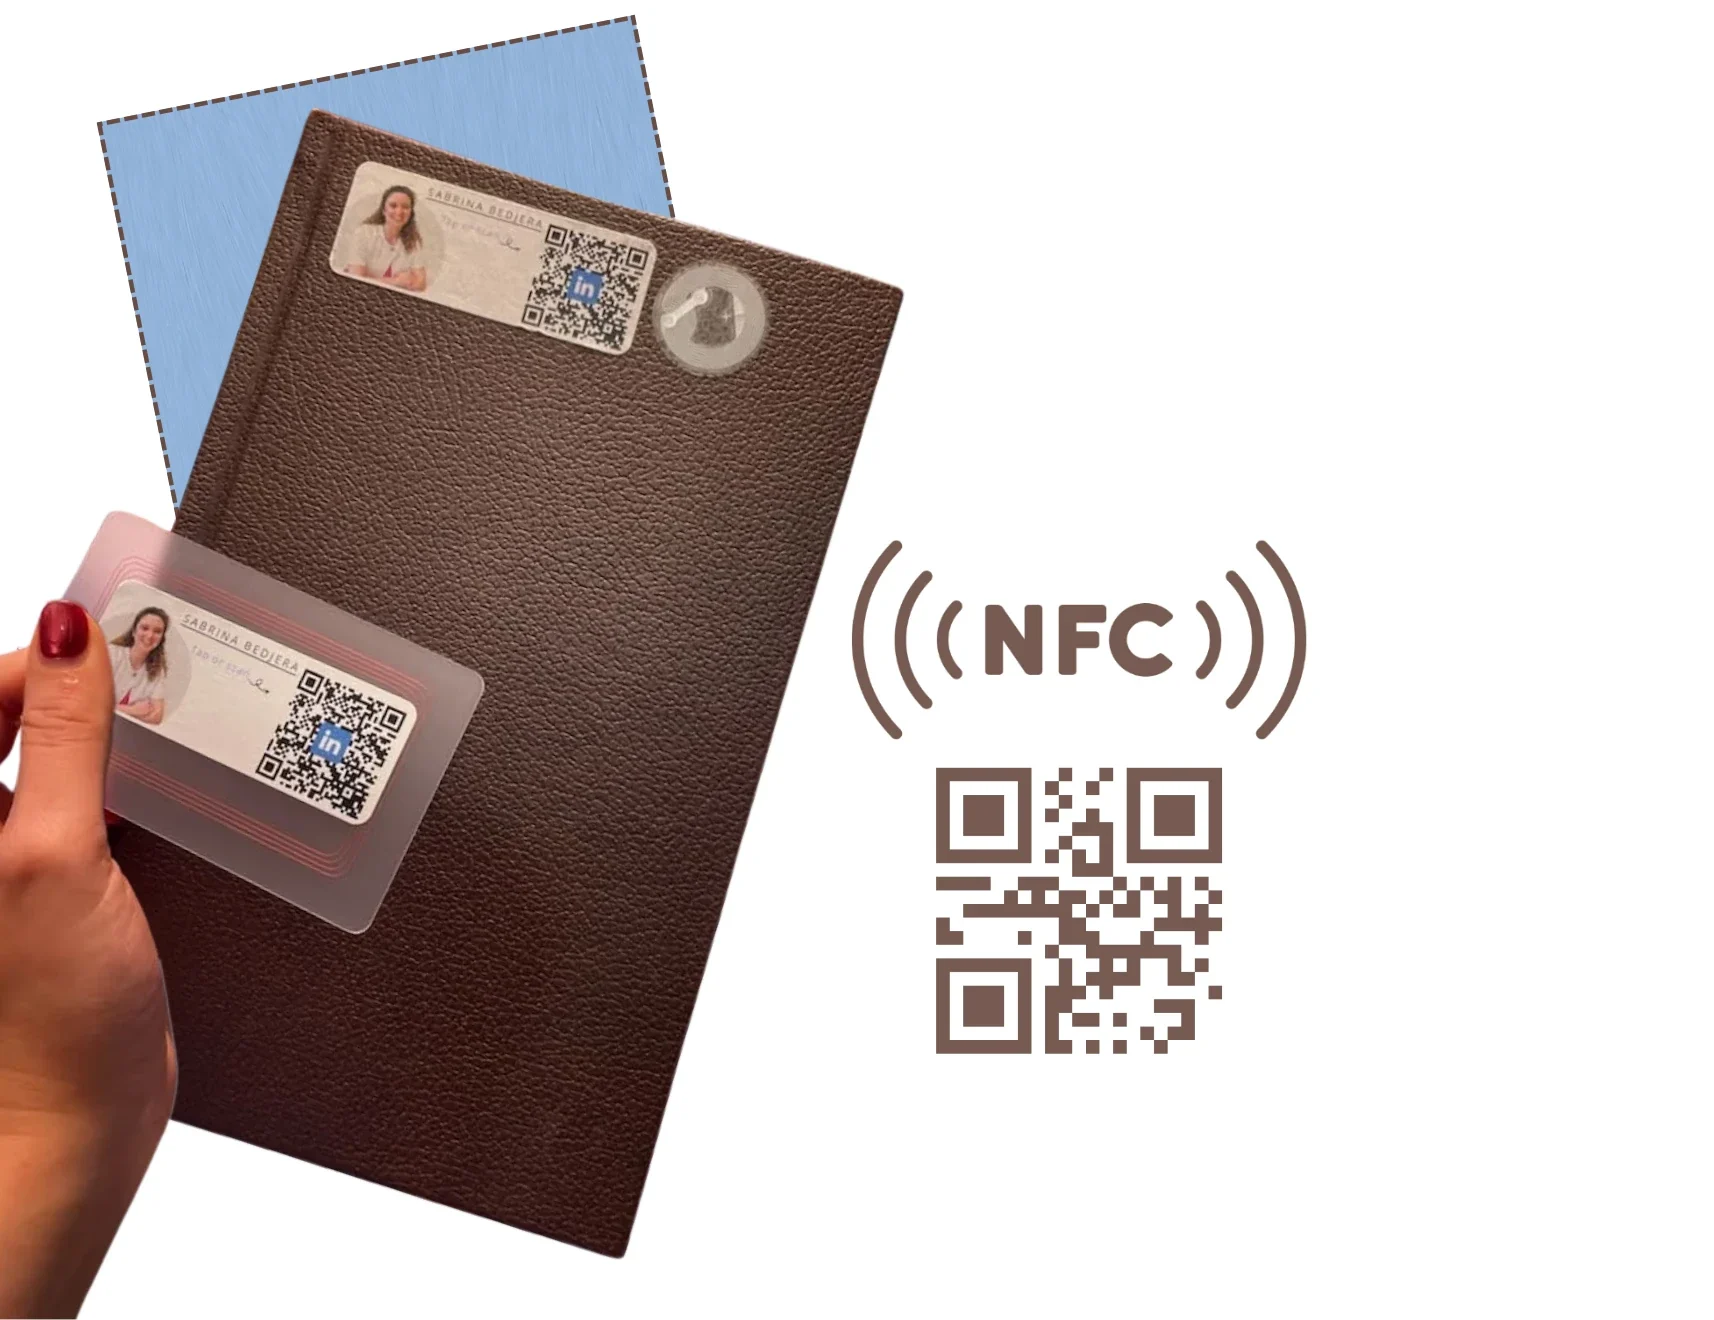
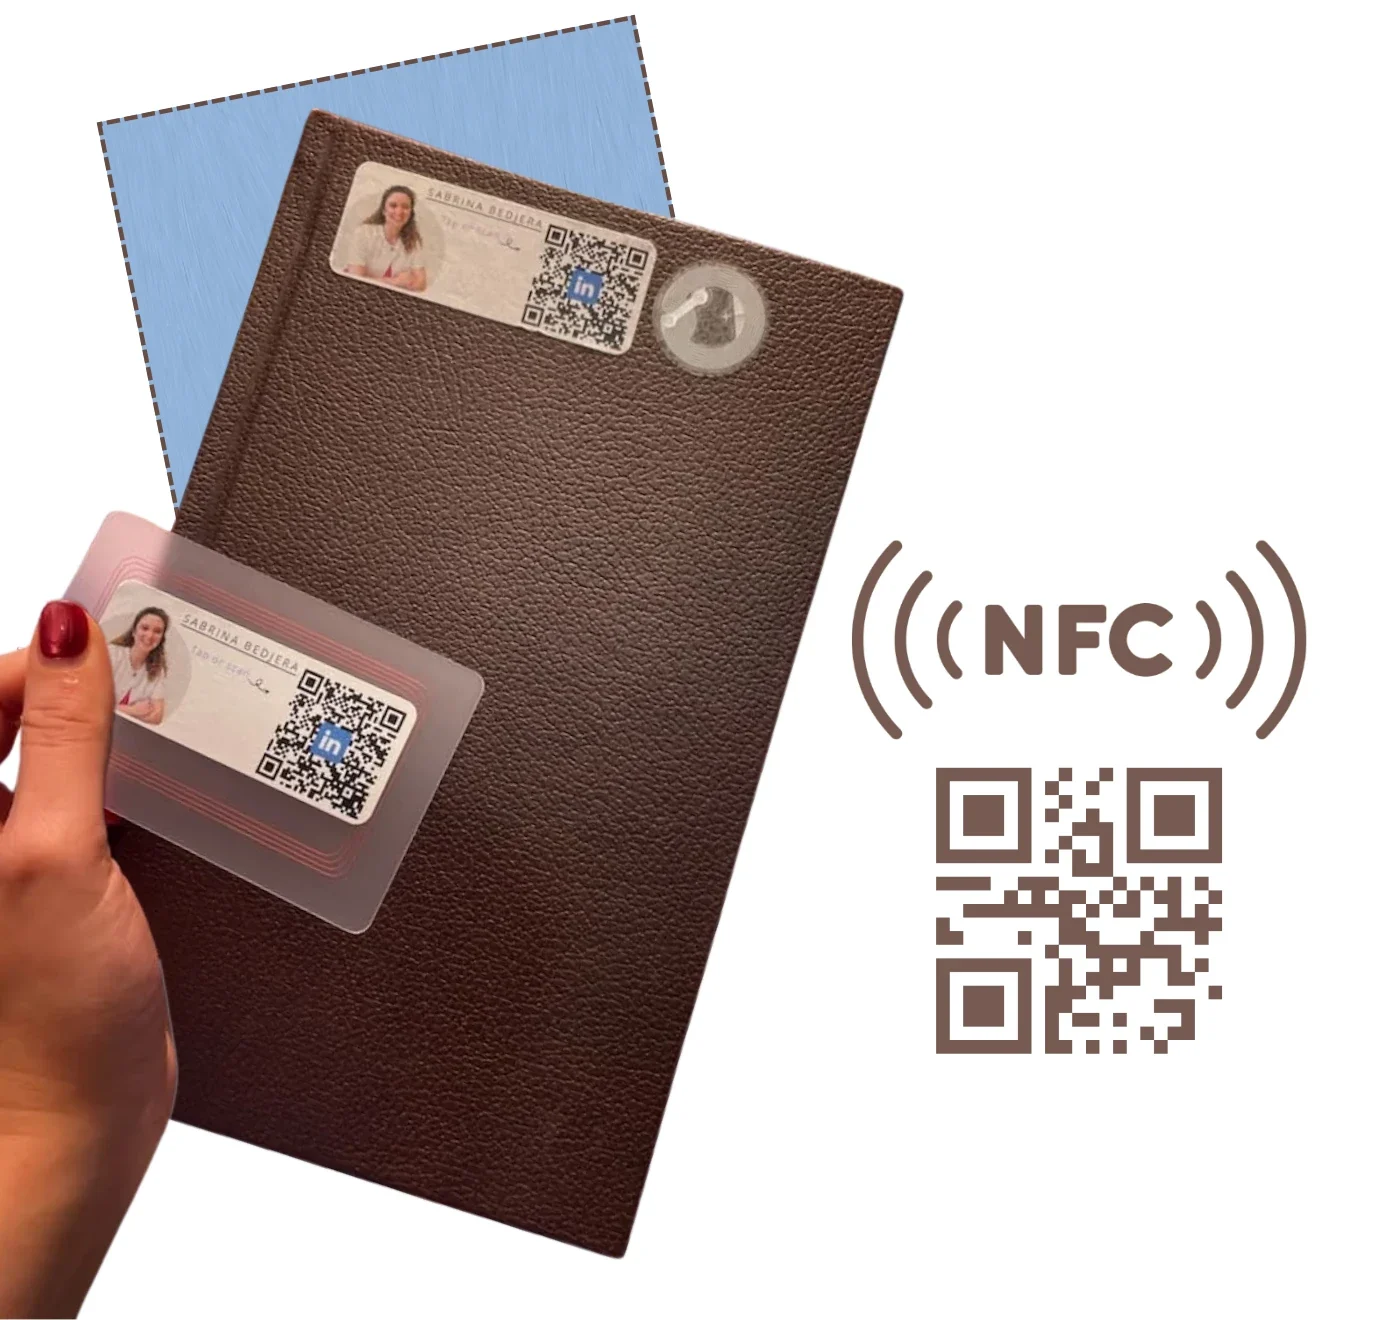
Approved Lab article, tighter NFC crop, tabletop shifted left
- Beyond the Business Card: the author's approved text, verbatim, with
  the two product links and the featured image in the prototype section;
  no longer a draft, so the remaining photo placeholder is gone
- NFC artwork: extra white space cropped from the right
- Homepage: the tabletop composition moved left as a group; the amethyst
  sits on the table again (back row), the books, terrarium, frame, cup
  and pen holder close up the gaps; labels move with their objects

Claude-Session: https://claude.ai/code/session_01Qm8igv5Ge8dJuqu5xyPJW1

diff --git a/src/lab.ts b/src/lab.ts
@@ -2,12 +2,15 @@
    The Lab: short articles about things I make and experiment with.
    Each post appears on the Lab index (PortfolioSections) and opens at
    #lab/<slug> (LabArticle). Add a post by adding an entry here.
-   `draft: true` shows a "Draft" label on the card and the article;
-   remove it once the post is approved for launch.
+   Paragraph text may contain [link text](https://…) and `code`.
+   `draft: true` shows a "Draft" label on the card and the article and
+   keeps the article out of search results; remove it once approved.
 ------------------------------------------------------------------- */
 
 export type LabBlock =
   | { type: "p"; text: string }
+  /** The post's image (see `image`), shown at this point in the article. */
+  | { type: "image" }
   /** A photograph still to be supplied: shown as a labelled placeholder. */
   | { type: "photo"; label: string }
 
@@ -16,7 +19,7 @@ export type LabPost = {
   title: string
   subtitle: string
   draft?: boolean
-  /** Featured image: the index thumbnail and the top of the article. */
+  /** The index thumbnail; also placed in the article by an "image" block. */
   image?: { src: string; alt: string; width: number; height: number }
   sections: { heading: string; blocks: LabBlock[] }[]
 }
@@ -26,11 +29,10 @@ export const labPosts: LabPost[] = [
     slug: "beyond-the-business-card",
     title: "Beyond the Business Card",
     subtitle: "An experiment with NFC, QR codes and making networking a little more interesting.",
-    draft: true,
     image: {
       src: "/lab/beyond-the-business-card.webp",
-      alt: "A hand holding a clear NFC card printed with Sabrina Bedjera’s photo and a LinkedIn QR code, in front of a brown leather notebook with a matching sticker and a round NFC tag, beside an NFC symbol and a QR code",
-      width: 1714,
+      alt: "A hand holding a clear NFC business card printed with Sabrina Bedjera’s photo and a LinkedIn QR code, in front of a brown leather notebook with a matching QR code sticker and a round NFC tag, beside an NFC symbol and a QR code",
+      width: 1376,
       height: 1320,
     },
     sections: [
@@ -39,11 +41,11 @@ export const labPosts: LabPost[] = [
         blocks: [
           {
             type: "p",
-            text: "Before a recent conference, I started thinking about how I’d share my contact information. Paper business cards work, but they’re easy to lose and rarely lead anywhere. I wanted something more convenient, and honestly, a bit more interesting.",
+            text: "Every time I go to a conference, I find myself buried in my bag trying to find my business cards, which inevitably get mixed up with the cards I've collected from other people. And I always seem to run out...",
           },
           {
             type: "p",
-            text: "I’d been curious about NFC, the same technology that lets you tap your phone to pay. It turns out you can buy small programmable tags and set them up yourself, so I decided to try making my own.",
+            text: "I wanted to try a more environmentally friendly and interactive way to share my information at conferences and business events. Something that might even serve as an icebreaker, because sometimes it can be awkward to strike up a natural conversation with people at conferences.",
           },
         ],
       },
@@ -52,17 +54,21 @@ export const labPosts: LabPost[] = [
         blocks: [
           {
             type: "p",
-            text: "I tried a few formats: NTAG213 stickers and NTAG215 cards. To program them, I used the NFC Tools app on my iPhone, which made it easy to write a link to a tag and test it straight away.",
+            text: "I've seen people using NFC tags to make everyday tasks a little easier, from sharing contact information to tapping a phone to open a website. I recently learned that it's the same technology used for contactless payments, and I desperately wanted an excuse to incorporate it into my life. Business cards seemed like the perfect opportunity to experiment.",
           },
           {
             type: "p",
-            text: "Not everyone knows to tap their phone on something, so I also made QR codes in Canva and had printed versions produced at Staples. That way there was always a second option.",
+            text: "I discovered that you can buy small programmable [NFC stickers](https://www.amazon.ca/dp/B0GQ321GWS), as well as reusable [plastic business cards with NFC tags](https://www.amazon.ca/dp/B09WHTCW89) already embedded. I decided to try both. The stickers offered more flexibility because I could put them on different objects, while the card gave me something familiar to hand to people. Using the NFC Tools app on my iPhone, I programmed the tags to open my LinkedIn profile. It was pretty easy to write a link to a tag and test it immediately.",
           },
           {
             type: "p",
-            text: "Then came the fun part: deciding where the tags should go. I tried a sticker on my phone and another on my notebook. The phone worked well. The notebook was less cooperative. Its cover was thick enough that the tag didn’t always read, so I adjusted the placement and added another sticker.",
+            text: "I was also concerned that not everyone would be familiar or comfortable with NFC, so I created QR codes in Canva that also linked to my LinkedIn profile, and had printed versions made at Staples. A little tip if you're trying this yourself, give the printed stickers a day to set, otherwise they might rip when you peel them off!",
           },
-          { type: "photo", label: "Photo to add: the tags on the phone and the notebook" },
+          {
+            type: "p",
+            text: "Then I had to decide where the NFC tags and QR codes should go so I would actually use them. I kept the NFC business card in my card holder and added an NFC sticker and QR code to my notebook.",
+          },
+          { type: "image" },
         ],
       },
       {
@@ -70,25 +76,23 @@ export const labPosts: LabPost[] = [
         blocks: [
           {
             type: "p",
-            text: "I brought the finished setup to the conference and actually used it. When someone wanted to connect, they could scan a QR code or tap their phone on one of the tags.",
-          },
-          { type: "photo", label: "Photo to add: the setup at the conference" },
-        ],
-      },
-      {
-        heading: "What worked (and what didn’t)",
-        blocks: [
-          {
-            type: "p",
-            text: "The QR codes were used far more often than NFC. I think that’s because people immediately understood what to do with them. Scanning a QR code is second nature now; tapping a notebook with your phone is not.",
+            text: "I decided to test the setup at my next conference, and this genuinely got me even more excited to go! When someone wanted to connect, they could scan a QR code or tap their phone on one of the NFC tags.",
           },
           {
             type: "p",
-            text: "NFC still earned its place. It was a fun conversation starter, and people were curious about how it worked. I also received positive feedback on the setup as a whole.",
+            text: "What surprised me was that I used my notebook far more than my NFC business card. Which makes a lot of sense. My notebook was constantly out because I was taking notes, while my business card was tucked away in its holder.",
           },
           {
             type: "p",
-            text: "One conversation stuck with me: someone I met didn’t use LinkedIn. It was a good reminder that one link doesn’t suit everyone, and that it helps to offer a few different ways to connect.",
+            text: "QR codes were also much more popular than NFC. I think their visibility and familiarity made a difference. People immediately recognized a QR code and knew what to do with it, while an NFC sticker on a notebook was less obvious. People were a little hesitant to tap their phones on my notebook, and those who did thought it was like magic, which was pretty fun! NFC turned out to be a great conversation starter, and people were curious about how it worked.",
+          },
+          {
+            type: "p",
+            text: "After all of this, my paper business cards actually came in handy! I met someone who preferred not to use digital tools, so they were the only person I gave a paper card to. Another person I met didn't use LinkedIn, which highlighted a different limitation. Even if someone can easily scan or tap an NFC tag or QR code, the destination still needs to be useful to them.",
+          },
+          {
+            type: "p",
+            text: "The biggest lesson? Giving people options works better than expecting everyone to connect the same way.",
           },
         ],
       },
@@ -97,11 +101,15 @@ export const labPosts: LabPost[] = [
         blocks: [
           {
             type: "p",
-            text: "For the next version, the tags and QR codes will point to a /connect page on this website, where people can choose LinkedIn, email, or a closer look at my work.",
+            text: "For the next version, I'd like the NFC tags and QR codes to point to a `/connect` page on this website, where people can choose LinkedIn, email or a closer look at my work.",
           },
           {
             type: "p",
-            text: "It’s a small change, but it solves the biggest gap I found. And if I want to change what people see, I can update the page instead of reprogramming the tags.",
+            text: "It's a small change, but it addresses one of the biggest limitations I found. And if I want to change what people see, I can update the page without reprogramming every tag.",
+          },
+          {
+            type: "p",
+            text: "Even though QR codes emerged as the winner, I still want to see what other projects I can come up with using NFC!",
           },
         ],
       },

diff --git a/src/App.tsx b/src/App.tsx
@@ -359,14 +359,14 @@ const homeObjects: HomeObject[] = [
   {
     id: "experience", description: "Professional background",
     // set a little forward of the back row, leaving room for the intro paragraph above
-    x: 548, w: 200, ground: BACK + (-55), aspect: 478 / 359, base: 0.956, caption: { dx: 145, dy: 12, center: true },
+    x: 575, w: 200, ground: BACK, aspect: 478 / 359, base: 0.956, caption: { dx: 108, dy: 12, center: true },
     layers: [{ src: "/home-objects/02_experience_mineral.webp" }],
   },
   {
     // The stack and the standing Technology book are laid out together in
     // curiosity-home.css; the standing book tips onto the stack on hover.
     id: "education", description: "Academic background",
-    x: 849, w: 432, ground: BACK, aspect: 0.53, base: 0.995, caption: { dx: 190, dy: 12 },
+    x: 805, w: 432, ground: BACK, aspect: 0.53, base: 0.995, caption: { dx: 190, dy: 12 },
     layers: [
       { src: "/home-objects/04_education_books_stack.webp", className: "ch-books-stack" },
       { src: "/home-objects/04_education_technology_book.webp", className: "ch-books-tech" },
@@ -374,19 +374,19 @@ const homeObjects: HomeObject[] = [
   },
   {
     id: "lab", description: "Technical and creative projects",
-    x: 1330, w: 256, ground: BACK, aspect: 517 / 419, base: 0.977, caption: { dx: 196, dy: 12 },
+    x: 1255, w: 256, ground: BACK, aspect: 517 / 419, base: 0.977, caption: { dx: 196, dy: 12 },
     layers: [{ src: "/home-objects/03_lab_cloche.webp" }],
   },
   {
     id: "about", description: "My approach and interests",
     // front row: frame, cup and pen holder, evenly spaced right of the mineral;
     // each rests high enough for its label to sit beneath it on FRONT_LABELS
-    x: 745, w: 196, ground: 883, aspect: 487 / 390, base: 0.912, caption: { dx: 98, center: true, frontRow: true },
+    x: 790, w: 196, ground: 883, aspect: 487 / 390, base: 0.912, caption: { dx: 98, center: true, frontRow: true },
     layers: [{ src: "/home-objects/05_about_frame.webp" }],
   },
   {
     id: "associations", description: "Professional associations and volunteering",
-    x: 1140, w: 172, ground: 880, aspect: 516 / 735, base: 0.99, caption: { dx: 86, center: true, frontRow: true },
+    x: 1040, w: 172, ground: 880, aspect: 516 / 735, base: 0.99, caption: { dx: 86, center: true, frontRow: true },
     layers: [{ src: "/home-objects/06_associations_espresso_cup.webp" }],
     steam: true,
   },
@@ -394,7 +394,7 @@ const homeObjects: HomeObject[] = [
     // Back of the holder, then the pen, then the holder again clipped to its
     // front wall: the pen's lower end disappears inside the cup.
     id: "contact", description: "Let’s connect",
-    x: 1376, w: 150, ground: 883, aspect: 457 / 303, base: 0.932, caption: { dx: 79, center: true, frontRow: true },
+    x: 1272, w: 150, ground: 883, aspect: 457 / 303, base: 0.932, caption: { dx: 79, center: true, frontRow: true },
     layers: [
       { src: "/home-objects/06_contact_pen_holder.webp", className: "ch-holder" },
       { src: "/home-objects/07_contact_animated_pen.webp", className: "ch-pen" },

diff --git a/src/LabArticle.tsx b/src/LabArticle.tsx
@@ -1,7 +1,22 @@
-import { useEffect, type CSSProperties } from "react"
+import { useEffect, type CSSProperties, type ReactNode } from "react"
 import "./case-study.css"
 import "./lab.css"
 import type { LabPost } from "./lab"
+
+/** Paragraph text with [links](https://…) and `code` turned into elements. */
+function richText(text: string): ReactNode[] {
+  return text.split(/(\[[^\]]+\]\([^)]+\)|`[^`]+`)/g).map((part, i) => {
+    const link = part.match(/^\[([^\]]+)\]\(([^)]+)\)$/)
+    if (link)
+      return (
+        <a href={link[2]} target="_blank" rel="noreferrer" key={i}>
+          {link[1]}
+        </a>
+      )
+    if (part.startsWith("`") && part.endsWith("`")) return <code key={i}>{part.slice(1, -1)}</code>
+    return part
+  })
+}
 
 /**
  * A Lab article: the case studies' top bar, type scale and reading column,
@@ -43,18 +58,18 @@ export default function LabArticle({ post, onBack }: { post: LabPost; onBack: ()
           <p className="lab-article__subtitle">{post.subtitle}</p>
         </header>
 
-        {post.image && (
-          <figure className="lab-article__image">
-            <img src={post.image.src} alt={post.image.alt} width={post.image.width} height={post.image.height} />
-          </figure>
-        )}
-
         {post.sections.map((section) => (
           <section className="lab-article__section" key={section.heading}>
             <h2>{section.heading}</h2>
             {section.blocks.map((block, i) =>
               block.type === "p" ? (
-                <p key={i}>{block.text}</p>
+                <p key={i}>{richText(block.text)}</p>
+              ) : block.type === "image" ? (
+                post.image && (
+                  <figure className="lab-article__image" key={i}>
+                    <img src={post.image.src} alt={post.image.alt} width={post.image.width} height={post.image.height} />
+                  </figure>
+                )
               ) : (
                 <figure className="lab-photo" key={i}>
                   <div className="lab-photo__placeholder" role="img" aria-label={block.label}>

diff --git a/src/lab.css b/src/lab.css
@@ -21,7 +21,10 @@
   font-size: var(--cs-fs-body);
   line-height: 1.5;
 }
-.lab-article__image { margin: clamp(32px, 3.5vw, 44px) 0 0; }
+.lab-article__image { margin: clamp(28px, 3vw, 36px) 0 0; }
+.cs .lab-article__section a { color: var(--cs-accent); text-decoration: underline; text-decoration-color: color-mix(in srgb, var(--cs-accent) 40%, transparent); text-underline-offset: 3px; }
+.cs .lab-article__section a:hover { text-decoration-color: currentColor; }
+.cs .lab-article__section code { padding: 1px 6px; border-radius: 4px; background: color-mix(in srgb, var(--cs-accent) 8%, var(--cs-paper)); font-family: ui-monospace, SFMono-Regular, Menlo, monospace; font-size: .88em; }
 .lab-article__image img { display: block; width: 100%; height: auto; background: #fff; }
 .lab-article__section { margin-top: clamp(40px, 4vw, 56px); }
 .lab-article__section h2 {

diff --git a/src/portfolio-sections.css b/src/portfolio-sections.css
@@ -116,7 +116,7 @@
   max-width: none;
   height: auto;
   margin: calc(-1 * clamp(24px, 2.6vw, 34px)) calc(-1 * clamp(24px, 2.6vw, 34px)) 22px;
-  aspect-ratio: 1714 / 1320;
+  aspect-ratio: 1376 / 1320;
   object-fit: contain;
   background: #fff;
 }
